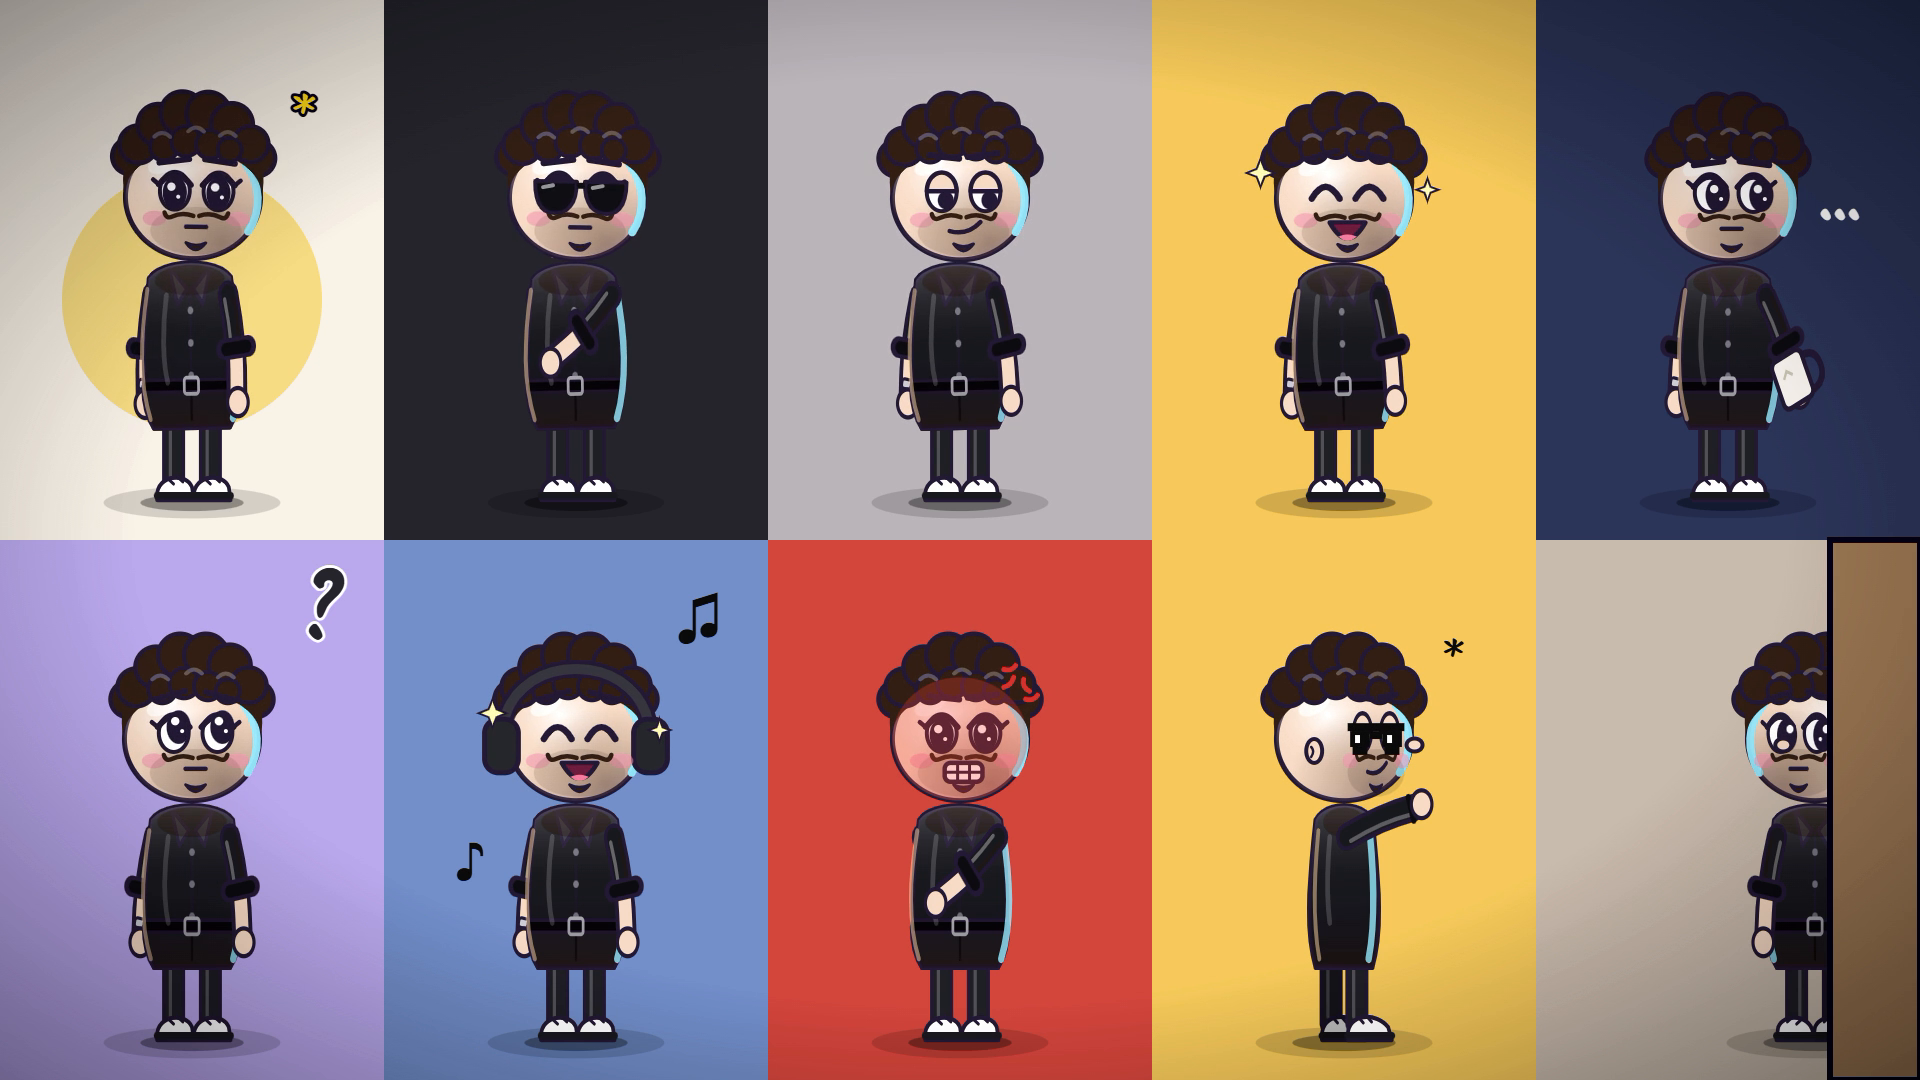
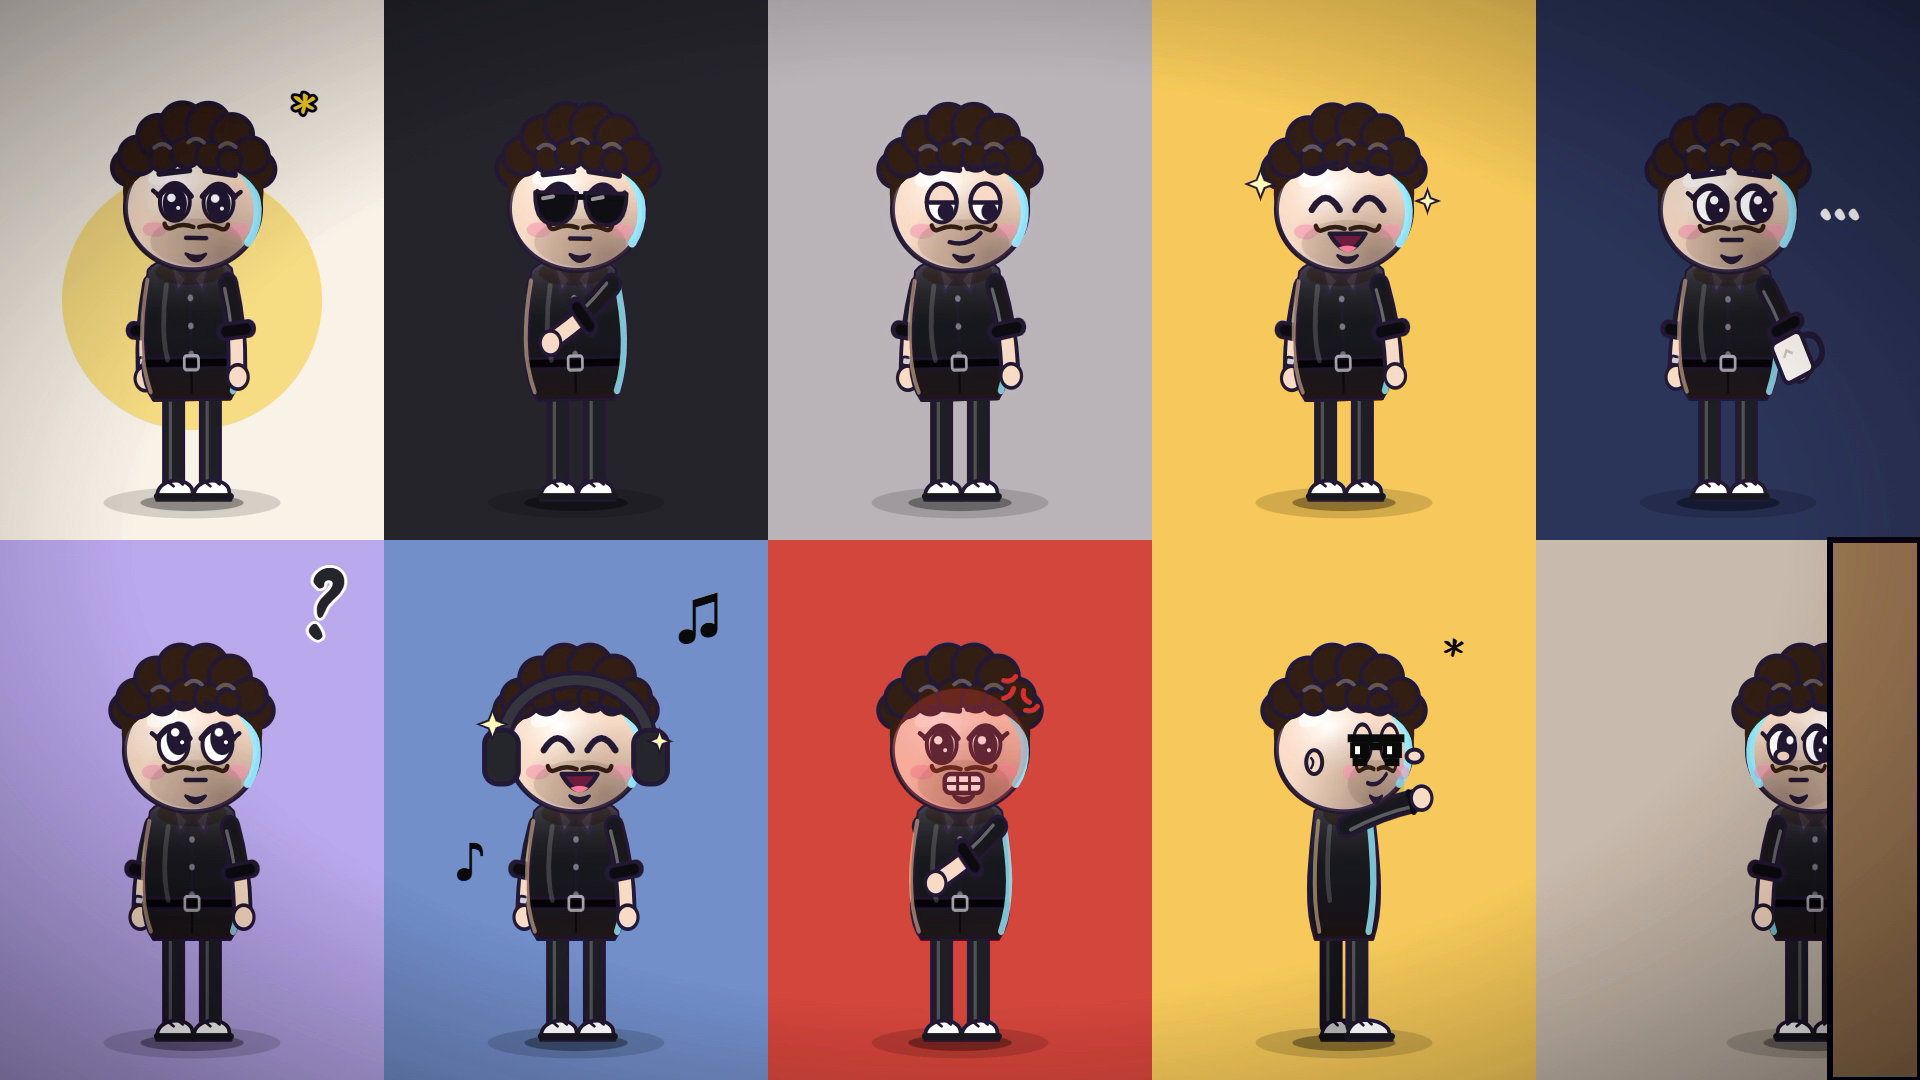
Height done right: tall = longer legs + lifted body/head (no neck gap, arms keep reach); bed, tags, camera and say-zoom aim at the real head (HEADOFF)

diff --git a/_kit/toon.js b/_kit/toon.js
@@ -55,7 +55,7 @@
     const LS = o.lightSide === 'left' ? -1 : 1, RIM = o.rim || '#8be9ff', FIL = o.fill || '#ffd29a', RIMR = LS > 0 ? RIM : FIL, RIML = LS > 0 ? FIL : RIM;
     // cast looks: outfit hoodie|tee|shirt|suit|coat|apron|vest|cardigan|uniform|dress, build slim|wide|kid
     const outfit = o.outfit || 'hoodie', hoodie = outfit === 'hoodie', SHORT = outfit === 'tee' || outfit === 'dress', SLV = outfit === 'coat' ? '#f4f6fa' : hood;
-    const KID = o.build === 'kid', bw = { slim: 0.86, wide: 1.17 }[o.build] || 1, HK = KID ? 1.42 : (o.headK || 1.22), TALL = o.tall || 1, HY = (KID ? -268 : -282) * TALL;
+    const KID = o.build === 'kid', bw = { slim: 0.86, wide: 1.17 }[o.build] || 1, HK = KID ? 1.42 : (o.headK || 1.22), TALL = o.tall || 1, LIFT = Math.round((TALL - 1) * 260), HIP = -76 - LIFT, HY = KID ? -268 : Math.round(-206 - 62 * HK);  // tall: extra height goes into the legs; body + head lift together (neck joint and arm reach stay the same)
     // ---- age: 0 = young; ~15 first lines, 30 glasses + grey tufts, 50 grey brows, 60+ white hair + cane + stoop ----
     const age = o.age || 0, AT = Math.min(1, age / 70);
     const canePath = `<path d="M0,-4 L0,92" stroke="${PI}" stroke-width="11" stroke-linecap="round"/><path d="M0,-4 L0,92" stroke="#b4783a" stroke-width="6" stroke-linecap="round"/><path d="M-15,-6 Q-15,-24 0,-24 Q15,-24 15,-8" fill="none" stroke="${PI}" stroke-width="11" stroke-linecap="round"/><path d="M-15,-6 Q-15,-24 0,-24 Q15,-24 15,-8" fill="none" stroke="#b4783a" stroke-width="6" stroke-linecap="round"/>`;
@@ -88,7 +88,7 @@
     const STACHE = o.stache === 'curl' ? `<path fill="none" stroke="${HCOL}" stroke-width="4.5" stroke-linecap="round" stroke-linejoin="round" d="M${fx - 3},19 Q${fx - 14},15 ${fx - 24},20 Q${fx - 30},23 ${fx - 32},16 M${fx + 3},19 Q${fx + 14},15 ${fx + 24},20 Q${fx + 30},23 ${fx + 32},16"/>` : o.stache ? `<path ${st(3.5)} fill="${HCOL}" d="M${fx - 24},20 C${fx - 13},8 ${fx - 3},12 ${fx},16 C${fx + 3},12 ${fx + 13},8 ${fx + 24},20 C${fx + 12},26 ${fx - 12},26 ${fx - 24},20Z"/>` : '';
     const BEARD = o.beard === 'goatee' ? `<ellipse cx="${fx}" cy="34" rx="46" ry="24" fill="${HCOL}" opacity="0.13"/><path ${st(3)} fill="${HCOL}" d="M${fx - 10},46 Q${fx},60 ${fx + 10},46 Q${fx},51 ${fx - 10},46Z"/>` : o.beard ? `<path ${st(4)} fill="${HCOL}" d="M${fx - 60},4 C${fx - 58},78 ${fx + 58},78 ${fx + 60},4 C${fx + 40},24 ${fx - 40},24 ${fx - 60},4Z"/>` : '';
     const leg = (side) => { const x = side === 'l' ? -20 : 20, dir = side === 'l' ? -1 : 1;
-      return `<g id="${id}-l${side === 'l' ? 'l' : 'r'}"><path d="M${x},-76 L${x},-16" fill="none" stroke="${PI}" stroke-width="${(o.legW || 13) + 7}" stroke-linecap="round"/><path d="M${x},-76 L${x},-16" fill="none" stroke="${pants}" stroke-width="${o.legW || 13}" stroke-linecap="round"/>${V ? `<path d="M${x - 3.5},-72 L${x - 3.5},-22" fill="none" stroke="#fff" stroke-opacity="0.22" stroke-width="3.5" stroke-linecap="round"/>` : ''}
+      return `<g id="${id}-l${side === 'l' ? 'l' : 'r'}" data-hy="${HIP}"><path d="M${x},${HIP} L${x},-16" fill="none" stroke="${PI}" stroke-width="${(o.legW || 13) + 7}" stroke-linecap="round"/><path d="M${x},${HIP} L${x},-16" fill="none" stroke="${pants}" stroke-width="${o.legW || 13}" stroke-linecap="round"/>${V ? `<path d="M${x - 3.5},${HIP + 4} L${x - 3.5},-22" fill="none" stroke="#fff" stroke-opacity="0.22" stroke-width="3.5" stroke-linecap="round"/>` : ''}
         <path ${st(4)} fill="#fff" d="M${x - 18},-4 C${x - 18},-24 ${x + 14},-26 ${x + 20},-12 L${x + 22},0 L${x - 18},0Z" transform="${side === 'r' ? '' : ''}"/><path d="M${x - 18},-4 L${x + 22},-4" stroke="${hood}" stroke-width="7" stroke-linecap="round"/><path d="M${x - 6},-20 l6,5 M${x + 4},-22 l6,5" stroke="${PI}" stroke-width="3" stroke-linecap="round"/></g>`; };
     const arm = (side) => { const x = side === 'l' ? -48 : 48, k = side === 'l' ? -6 : 6;
       return `<g id="${id}-a${side}" data-sx="${x}" data-sy="-190">
@@ -145,7 +145,7 @@
 
     // side view: shoes point forward (+x), both arms hang from the shoulder line, one drawstring, pocket on the front
     const sideLeg = (side) => { const x = side === 'l' ? -14 : 14;
-      return `<g id="${id}-l${side === 'l' ? 'l' : 'r'}"><path d="M${x},-76 L${x},-16" fill="none" stroke="${PI}" stroke-width="${(o.legW || 13) + 7}" stroke-linecap="round"/><path d="M${x},-76 L${x},-16" fill="none" stroke="${pants}" stroke-width="${o.legW || 13}" stroke-linecap="round"/>${V ? `<path d="M${x - 3.5},-72 L${x - 3.5},-22" fill="none" stroke="#fff" stroke-opacity="0.22" stroke-width="3.5" stroke-linecap="round"/>` : ''}
+      return `<g id="${id}-l${side === 'l' ? 'l' : 'r'}" data-hy="${HIP}"><path d="M${x},${HIP} L${x},-16" fill="none" stroke="${PI}" stroke-width="${(o.legW || 13) + 7}" stroke-linecap="round"/><path d="M${x},${HIP} L${x},-16" fill="none" stroke="${pants}" stroke-width="${o.legW || 13}" stroke-linecap="round"/>${V ? `<path d="M${x - 3.5},${HIP + 4} L${x - 3.5},-22" fill="none" stroke="#fff" stroke-opacity="0.22" stroke-width="3.5" stroke-linecap="round"/>` : ''}
         <path ${st(4)} fill="#fff" d="M${x - 10},-4 C${x - 10},-26 ${x + 22},-26 ${x + 34},-12 L${x + 38},0 L${x - 10},0Z"/><path d="M${x - 10},-4 L${x + 38},-4" stroke="${hood}" stroke-width="7" stroke-linecap="round"/><path d="M${x + 2},-21 l5,5 M${x + 11},-22 l5,5" stroke="${PI}" stroke-width="3" stroke-linecap="round"/></g>`; };
     const sideArm = (side) => { const x = side === 'l' ? -3 : 3, col = SHORT ? skin : outfit === 'coat' ? (side === 'l' ? '#d7dce6' : '#f4f6fa') : side === 'l' ? hoodDark : hood;
       return `<g id="${id}-a${side}" data-sx="${x}" data-sy="-190">
@@ -216,9 +216,9 @@
     const sc = o.scale || 1;
     return `<g id="${id}-pos"><g id="${id}" transform="translate(${o.x || 0},${o.y || 0}) scale(${(o.flip ? -1 : 1) * sc},${sc})">
       ${V ? '<ellipse fill="#000" opacity="0.14" cx="0" cy="3" rx="96" ry="17"/><ellipse fill="#000" opacity="0.32" cx="0" cy="3" rx="56" ry="9"/>' : '<ellipse fill="#000" opacity="0.22" cx="0" cy="3" rx="78" ry="13"/>'}
-      <g transform="scale(1,${TALL})">${LEGS}${SKIRT}</g>
-      <g transform="rotate(${stoop.toFixed(1)} 0 -70)"><g transform="scale(1,${TALL})"><g id="${id}-body">${bw !== 1 ? `<g transform="scale(${bw},1)">` : ''}${FARA}${BPS}${torsoV}${armsV[1]}${bw !== 1 ? '</g>' : ''}</g></g>
-      ${head}</g>
+      ${LEGS}<g transform="translate(0,${-LIFT})">${SKIRT}
+      <g transform="rotate(${stoop.toFixed(1)} 0 -70)"><g><g id="${id}-body">${bw !== 1 ? `<g transform="scale(${bw},1)">` : ''}${FARA}${BPS}${torsoV}${armsV[1]}${bw !== 1 ? '</g>' : ''}</g></g>
+      ${head}</g></g>
     </g></g>`;
   }
 
@@ -392,8 +392,9 @@
     const st = (t1 - t0) / steps;
     for (let i = 0; i < steps; i++) {
       const a = i % 2 ? 22 : -22;
-      tl.to(`#${id}-ll`, { rotation: a, svgOrigin: '-18 -76', duration: st, ease: 'sine.inOut' }, t0 + i * st);
-      tl.to(`#${id}-lr`, { rotation: -a, svgOrigin: '18 -76', duration: st, ease: 'sine.inOut' }, t0 + i * st);
+      const hy = (q(`#${id}-ll`) && q(`#${id}-ll`).dataset.hy) || -76;
+      tl.to(`#${id}-ll`, { rotation: a, svgOrigin: `-18 ${hy}`, duration: st, ease: 'sine.inOut' }, t0 + i * st);
+      tl.to(`#${id}-lr`, { rotation: -a, svgOrigin: `18 ${hy}`, duration: st, ease: 'sine.inOut' }, t0 + i * st);
       tl.to(`#${id}-body`, { y: -6, duration: st / 2, ease: 'sine.out', yoyo: true, repeat: 1 }, t0 + i * st);
     }
     tl.to(`#${id}-ll, #${id}-lr`, { rotation: 0, duration: 0.15 }, t1);

diff --git a/_kit/scenes.js b/_kit/scenes.js
@@ -55,6 +55,9 @@
   // direction-aware characters: walk dx sets side view + mirror; dir 'away' = back view shrinking, 'toward' = front view growing
   // ---------- cast roles: "role":"dad" expands to a full look; any key you give yourself wins ----------
   const HERO_DEFAULT = 'abid';
+  // real head/body height of a mascot (matches toon.js: tall -> legs longer, body + head lifted; headK -> head size)
+  const LIFT = (c) => Math.round(((c.tall || 1) - 1) * 260);
+  const HEADOFF = (c) => (c.build === 'kid' ? 268 : Math.round(206 + 62 * (c.headK || 1.22))) + LIFT(c);
   const ROLES = {
     hoodie: { style: "mascot" },   // the old yellow-hoodie hero
     abid: { style: "mascot", roll: true, tuck: true, legW: 18, build: "slim", tall: 1.16, headK: 1.08, hair: "fluffy", hairCol: "#3a2418", skin: "#f6d6bd", stache: "curl", beard: "goatee", outfit: "shirt", shirt: "#1f1f26", hoodDark: "#131318", collar: "#3c3c4a", pants: "#24242c", eyes: "dark", curl: false },   // the user's own character (black shirt, curly hair, curled moustache)
@@ -133,7 +136,7 @@
   function tagList(o) {
     return (o.tags || []).map((g, i) => {
       const ch = typeof g.ch === "number" ? (o.chars || [])[g.ch] : (o.chars || []).find((c) => c.name === g.ch), sc = ch ? (ch.scale || 1) : 1;
-      const x = g.x != null ? g.x : (ch ? ch.x || 0 : 960), y = g.y != null ? g.y : (ch ? (ch.y || 0) - (ch.style === "mascot" ? 372 : 335) * sc - (g.dy == null ? 70 : g.dy) : 300);
+      const x = g.x != null ? g.x : (ch ? ch.x || 0 : 960), y = g.y != null ? g.y : (ch ? (ch.y || 0) - (ch.style === "mascot" ? HEADOFF(ch) + 90 : 335) * sc - (g.dy == null ? 70 : g.dy) : 300);
       const vals = [[g.t == null ? 0.3 : g.t, String(g.text)]].concat((g.to || []).map((a) => [a[0], String(a[1])]));
       return { g, i, x, y, vals, size: g.size || 120, ch };
     });
@@ -572,7 +575,7 @@
       if (!(X && X.silent)) { const rest = X ? (X.mouth === "open" ? "smile" : X.mouth) : (E.mood === "open" ? "smile" : E.mood); if (s.env && s.env.length && T.lips) T.lips(tl, id, s.from, s.env, s.envFps || 15, rest); else T.talk(tl, id, s.from + 0.1, s.to, rest); }
       if (E.shake) C.shake(s.from + 0.05, E.shake);
       if (s.zoom !== false && o.bg && RICH[o.bg]) { const bl = s.blur == null ? 14 : s.blur; ["far", "mid"].forEach((k) => { tl.set(`#${sid}-${k}`, { filter: "blur(0px) brightness(1)" }, 0); tl.to(`#${sid}-${k}`, { filter: `blur(${bl}px) brightness(0.72)`, duration: 0.45 }, s.from - 0.15); tl.to(`#${sid}-${k}`, { filter: "blur(0px) brightness(1)", duration: 0.5 }, s.to + 0.1); }); }
-      if (s.zoom !== false) { C.to(s.from - 0.2, 0.55, { k: s.k || 1.9, fx: (c.x || 960), fy: (c.y || 1000) - 240 * sc }, "power2.inOut"); C.to(s.to + 0.1, 0.6, { k: 1.06, fx: 960, fy: 540 }, "power2.inOut"); }
+      if (s.zoom !== false) { C.to(s.from - 0.2, 0.55, { k: s.k || 1.9, fx: (c.x || 960), fy: (c.y || 1000) - (240 + (c.style === "mascot" ? HEADOFF(c) - 282 : 0)) * sc }, "power2.inOut"); C.to(s.to + 0.1, 0.6, { k: 1.06, fx: 960, fy: 540 }, "power2.inOut"); }
     });
   }
 
@@ -766,13 +769,13 @@
   // ---------- in bed, seen from above: "bed":{ch:"hero", col:"#6a8fd0", sheet:"#f4efe6", full:true, phone:{t0,t1}} ----------
   function bedParts(B, o, sid) {
     if (!B) return null; const c = (o.chars || []).find((q) => q.name === B.ch) || (o.chars || [])[0]; if (!c) return null;
-    const sc = c.scale || 1, cx = c.x || 960, hy = (c.y || 1000) - 282 * sc, col = B.col || "#6a8fd0";
+    const sc = c.scale || 1, cx = c.x || 960, hy = (c.y || 1000) - HEADOFF(c) * sc, by = (c.y || 1000) - LIFT(c) * sc, col = B.col || "#6a8fd0";
     const back = (B.full !== false ? `<rect x="-400" y="-400" width="2720" height="1880" fill="${B.sheet || "#f1ebe2"}"/>` + Array.from({ length: 14 }, (_, i) => `<path d="M-400,${-200 + i * 110} L2320,${-120 + i * 110}" stroke="#00000010" stroke-width="18"/>`).join("") : "")
       + `<rect x="${cx - 230 * sc}" y="${hy - 150 * sc}" width="${460 * sc}" height="${260 * sc}" rx="${100 * sc}" fill="#ffffff" stroke="${INK}" stroke-width="${6 * sc}"/><path d="M${cx - 150 * sc},${hy - 120 * sc} q${150 * sc},${40 * sc} ${300 * sc},0" fill="none" stroke="#00000018" stroke-width="${8 * sc}"/>`
       + (B.phone ? `<g id="${sid}-bph"><g transform="translate(${cx + 300 * sc},${hy + 10 * sc}) rotate(18)"><rect x="${-45 * sc}" y="${-85 * sc}" width="${90 * sc}" height="${170 * sc}" rx="${16 * sc}" fill="#1b1d26" stroke="${INK}" stroke-width="${5 * sc}"/><rect x="${-37 * sc}" y="${-75 * sc}" width="${74 * sc}" height="${150 * sc}" rx="${10 * sc}" fill="#ffcfb5"/><text x="0" y="${-20 * sc}" font-size="${30 * sc}" text-anchor="middle" font-family="Kalam" font-weight="700" fill="#2a1f3d">7:00</text></g><g id="${sid}-bring" opacity="0"><path d="M${cx + 380 * sc},${hy - 60 * sc} q${40 * sc},${60 * sc} 0,${130 * sc} M${cx + 420 * sc},${hy - 90 * sc} q${60 * sc},${90 * sc} 0,${190 * sc}" fill="none" stroke="#ff7a1a" stroke-width="${8 * sc}" stroke-linecap="round"/></g></g>` : "");
-    const front = `<path d="M${cx - 360 * sc},${c.y - 205 * sc} Q${cx},${c.y - 250 * sc} ${cx + 360 * sc},${c.y - 205 * sc} L${cx + 420 * sc},${c.y + 700} L${cx - 420 * sc},${c.y + 700}Z" fill="${col}" stroke="${INK}" stroke-width="${7 * sc}" stroke-linejoin="round"/>`
-      + `<path d="M${cx - 340 * sc},${c.y - 170 * sc} Q${cx},${c.y - 210 * sc} ${cx + 340 * sc},${c.y - 170 * sc}" fill="none" stroke="#ffffff70" stroke-width="${14 * sc}" stroke-linecap="round"/>`
-      + [1, 2, 3].map((i) => `<path d="M${cx - 380 * sc + i * 40},${c.y - 120 * sc + i * 90 * sc} q${180 * sc},${-30 * sc} ${360 * sc},0" fill="none" stroke="#00000020" stroke-width="${6 * sc}" stroke-linecap="round"/>`).join("");
+    const front = `<path d="M${cx - 360 * sc},${by - 205 * sc} Q${cx},${by - 250 * sc} ${cx + 360 * sc},${by - 205 * sc} L${cx + 420 * sc},${c.y + 700} L${cx - 420 * sc},${c.y + 700}Z" fill="${col}" stroke="${INK}" stroke-width="${7 * sc}" stroke-linejoin="round"/>`
+      + `<path d="M${cx - 340 * sc},${by - 170 * sc} Q${cx},${by - 210 * sc} ${cx + 340 * sc},${by - 170 * sc}" fill="none" stroke="#ffffff70" stroke-width="${14 * sc}" stroke-linecap="round"/>`
+      + [1, 2, 3].map((i) => `<path d="M${cx - 380 * sc + i * 40},${by - 120 * sc + i * 90 * sc} q${180 * sc},${-30 * sc} ${360 * sc},0" fill="none" stroke="#00000020" stroke-width="${6 * sc}" stroke-linecap="round"/>`).join("");
     return { back, front };
   }
   function bedAnim(tl, B, sid, dur) {
@@ -814,7 +817,7 @@
   function shotsToCam(o, dur) {
     const L = o.shots || (o.shot ? [o.shot] : []); if (!L.length) return; o.camMoves = o.camMoves || []; o.drift = false;
     const find = (n) => (o.chars || []).find((c) => c.name === n) || (o.chars || []).find((c) => !c._copy);
-    const headY = (c) => (c.y || 1000) - (c.style === "mascot" ? (c.build === "kid" ? 268 : 282) : 250) * (c.scale || 1);
+    const headY = (c) => (c.y || 1000) - (c.style === "mascot" ? HEADOFF(c) : 250) * (c.scale || 1);
     L.forEach((s, i) => {
       const t = s.t || 0, d2 = s.dur || dur - t, c = s.on ? find(s.on) : find(), k = s.k;
       if (s.type === "track" && c) { const w = c.walk || [t, t + d2, 0], lead = s.lead == null ? 70 * Math.sign(w[2] || 1) : s.lead, fy = s.fy || (c.y || 1000) - (324 + (o.portrait ? (o.lift == null ? 160 : o.lift) : 0)) / (k || 1);   // feet land at 80% of the frame

diff --git a/LIBRARY.md b/LIBRARY.md
@@ -25,7 +25,7 @@ Spec = one scene with `"type":"thumb"`: `bg` (any env, or `white`), `text` (`["T
 `bash new-clip.sh S1` makes **Short 1** (stored as clip 90; S2 = clip 91 ...): pairs the files named `Short 1 - Voice-over.mp3` (name must contain "Short" + the number) with `Short 1 - ....txt` in `Voice-overs Chunks/` and `Transcript Chunks/`, writes `meta.json` with `"portrait": true` and a 1080x1920 `index.html`. Then `python3 scene.py 90 specs/short1.json` and `bash render-clip.sh S1` -> `renders/Short 1.mp4`. The same scene specs and kit work: the scene is cropped to a 607.5x1080 slice of the 1920x1080 stage (x 656..1264, centred on x=960, scaled 1.78x; vector art stays sharp). **Keep the hero, number badges and text inside x 690..1230**; aim the camera with `cam:{fx:<hero x>}` to follow someone elsewhere. Hero `scale` about 1.8-2.4 fills the frame; captions in the top third (y < 400) or bottom third; leave y > 1700 clear of text (YouTube UI). Tested: 1080x1920 render of a street + hero + number badge (frame checked). No voice-over yet? `SILENT=45 bash new-clip.sh S1` makes a silent 45 s project (hand-set scene times, add the voice later). Portrait text rules (learned from Short 1): `pop` items must fit about 540 px: font size about 940 / number of characters (12 letters -> fs 70), split long lines; captions on a dark rounded pill (`rect` fill #0b0620 opacity .6) so they stay readable; hero scale 1.75 at y 1040 leaves room above the head for a caption (y 60-230) AND a number tag. Working example: `specs/short_trust.json` (8 scenes, 45 s). **Layout rules (user, 2026-11-19):** centre text blocks vertically (equal space above and below, never pushed to the bottom: for the 1080-tall stage a block's centre is y about 540); every side character must LOOK like its role and age, never a recoloured copy of the hero: use `style:"pear"` with different `hair`, `hairCol`, `skin`, `shirt`, `suit`+`tie`, `stache`, `glasses` (dad = grey hair + stache + glasses + cardigan colour, boss = suit + tie, friend = other skin tone and hair), and only the hero is the yellow mascot (aged hero: `age`). Cast test sheet: `thumbnails/castcheck_1280x720.jpg`.
 
 ## The user's own character: `"role":"abid"` (2026-11-20, from the user's reference sheet) - picture docs/ABID_CHARACTER.png
-Taller + slimmer than the default mascot (`tall:1.16, headK:1.08, build:"slim"`; `tall`/`headK` work on any mascot). Messy curly dark hair (`hair:"fluffy"`), thin curled moustache with a gap under the nose (`stache:"curl"`), goatee + stubble (`beard:"goatee"`), big dark pupils (`eyes:"dark"`), black shirt with collar + light buttons (`outfit:"shirt", collar`), rolled sleeves + watch (`roll:true`), shirt tucked into trousers with a belt (`tuck:true`), thicker legs (`legW:18`, default 13), black trousers, white sneakers. Extras for any mascot: `shades:"black"|"pixel"`, `headphones:true|"#col"`, `hold:"mug"` (mug in the hand, `holdSide`), timed expressions `exprAt:[[t,"joy"|"angry"|"smug"...]]`. Sheet spec: `specs/abid_character_sheet.json` (10 poses: neutral, shades + crossed arms, smug, laughing, mug, question, headphones, angry, pixel shades point, peek behind a door). **He IS the default hero (user 2026-11-20)**: a char named `"hero"` with no role becomes `abid` automatically. Old yellow hoodie: `role:"hoodie"` or scene `"hero":"hoodie"`.
+Taller + slimmer than the default mascot (`tall:1.16, headK:1.08, build:"slim"`; `tall`/`headK` work on any mascot; `tall` makes the LEGS longer and lifts body + head together, so the neck joint and arm reach never change). His head sits higher than the old hero: anything you hand-place at his head or hands (custom `extra` arms, props, cameras) must use the real height: head centre = y - (206 + 62*headK + (tall-1)*260) * scale (abid: y - 315*scale; old hoodie hero: y - 282*scale), shoulders at x +-48*0.86, y - (190 + 42) * scale. Kit parts (bed, number tags, camera push/reveal, say zoom) already use this (`HEADOFF` in scenes.js). Messy curly dark hair (`hair:"fluffy"`), thin curled moustache with a gap under the nose (`stache:"curl"`), goatee + stubble (`beard:"goatee"`), big dark pupils (`eyes:"dark"`), black shirt with collar + light buttons (`outfit:"shirt", collar`), rolled sleeves + watch (`roll:true`), shirt tucked into trousers with a belt (`tuck:true`), thicker legs (`legW:18`, default 13), black trousers, white sneakers. Extras for any mascot: `shades:"black"|"pixel"`, `headphones:true|"#col"`, `hold:"mug"` (mug in the hand, `holdSide`), timed expressions `exprAt:[[t,"joy"|"angry"|"smug"...]]`. Sheet spec: `specs/abid_character_sheet.json` (10 poses: neutral, shades + crossed arms, smug, laughing, mug, question, headphones, angry, pixel shades point, peek behind a door). **He IS the default hero (user 2026-11-20)**: a char named `"hero"` with no role becomes `abid` automatically. Old yellow hoodie: `role:"hoodie"` or scene `"hero":"hoodie"`.
 
 ## Long-video pieces (built for V02 clips 1-2, 2026-11-19)
 - `"phone":{x,y,k,screen:"lock"|"call",time,date,name,sub}` on a stage scene: a phone held in a hand; characters placed in the screen are clipped to it (a photo, a video call) and their tags glow on the screen. Groups `#<sid>-phb/-phc/-phf` (+ `#<sid>-tgw0`) shake together. Put the character low (e.g. role mom, y 1065, scale 1.5) so the tag sits under the lock-screen clock.
